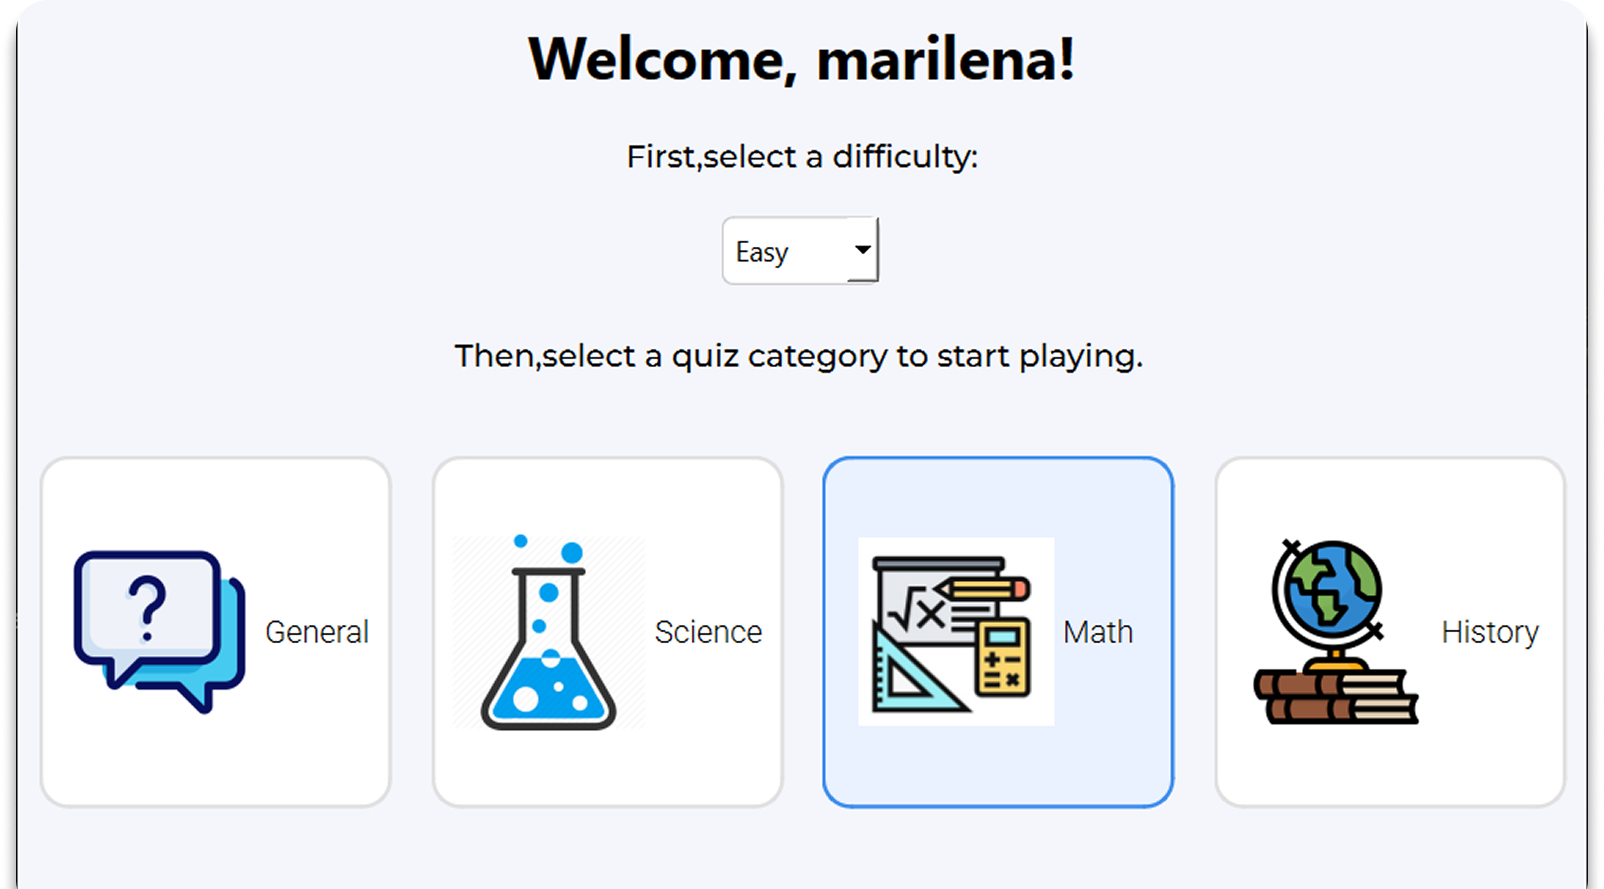
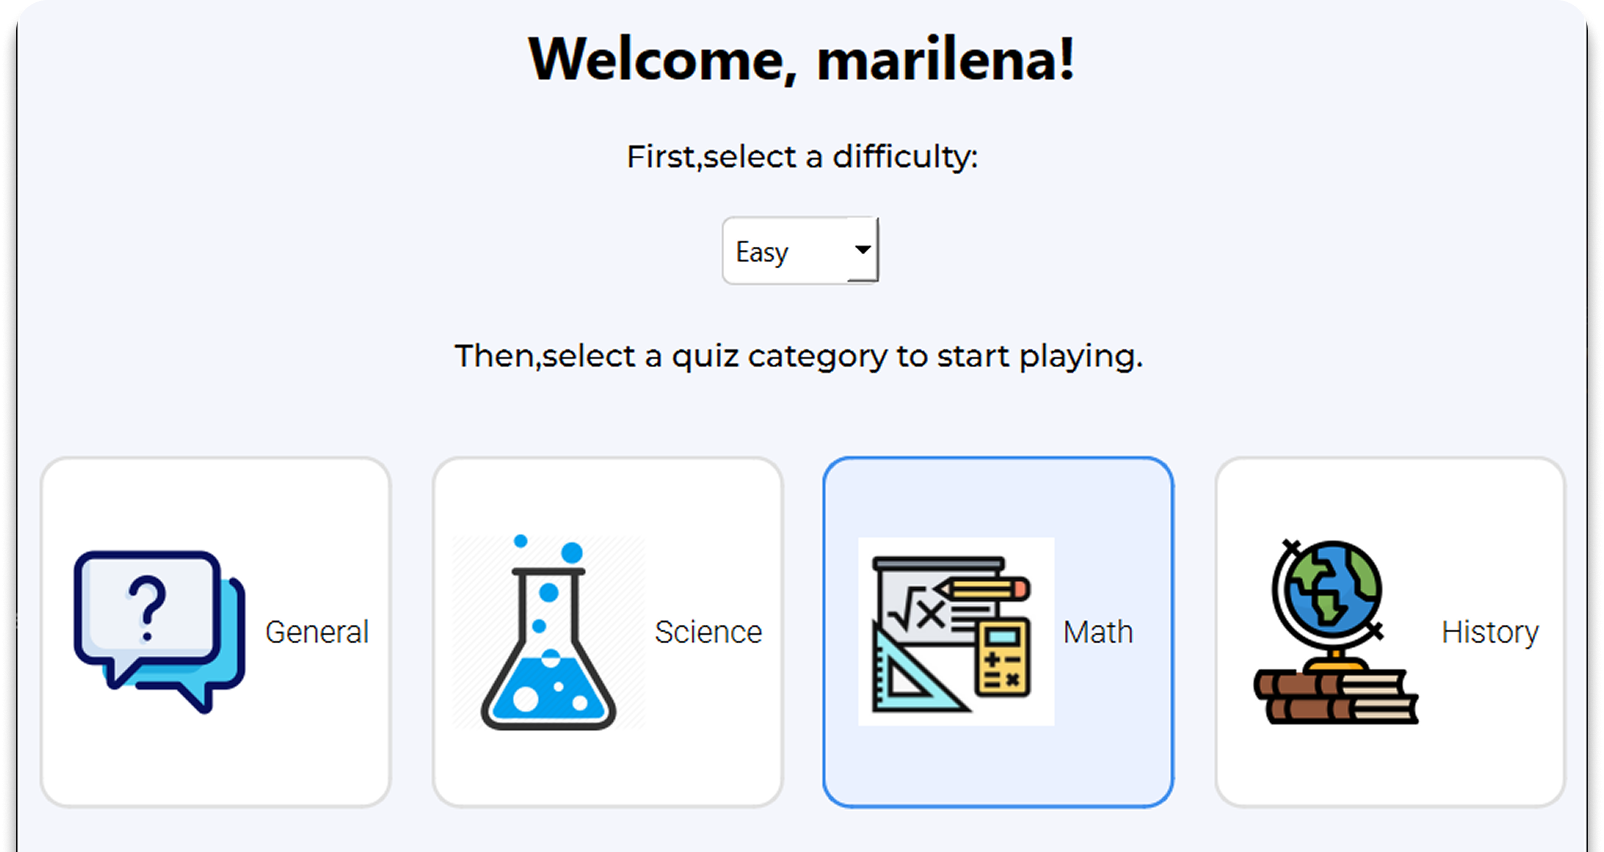
Changes to projects for responsiveness + small syntax changes to hero

diff --git a/src/components/Projects.jsx b/src/components/Projects.jsx
@@ -8,16 +8,9 @@ import Tilt from 'react-parallax-tilt';
 import { github } from "../assets/index.js";
 
 const ProjectCard = ({ index, project }) => {
-  {/* flex 
-  flex-col 
-  h-full 
-  w-full 
-  max-w-md 
-  rounded-lg 
-  p-2*/}
 
   const shouldReduceMotion = useReducedMotion()
-
+  const isPortrait = project.name === "Serenify(thesis)"
   return (
     <Tilt
       tiltEnable={false}
@@ -39,27 +32,42 @@ const ProjectCard = ({ index, project }) => {
         flex-col     
         items-center
         justify-center
+        pl-3
+        pr-3
+        pt-3
       `}>
 
-        <div className="flex flex-wrap min-h-5 gap-3 m-3 m-3 md:m-4 items-center">
+        <div className="flex flex-wrap 
+        min-h-5
+        gap-2 
+        sm:gap-3
+        mb-2 
+        sm:mb-3
+        md:mb-4 
+        items-center
+        self-start
+        ">
           {
             project.tags.map((tag) => (
-              <div className={`${styles.glassProjectTagsBg} flex items-center gap-1.5 
-            rounded-3xl 
-            px-2
-            font-semibold
-            [&:hover]:scale-110 
-            [&:hover]:border-white-100 
-            transition 
-            duration-300
+              <div
+                key={`${project.name}-${tag.name}`}
+                className={`${styles.glassProjectTagsBg} flex items-center gap-1.5 
+                rounded-3xl 
+                px-2
+                py-0.5
+                font-semibold
+                [&:hover]:scale-110 
+                [&:hover]:border-white-100 
+                transition 
+                duration-300
+                p-1
             `}>
                 <img src={tag.logo}
-                  className="ml-1 w-4 h-4 sm:w-2 sm:h-2 rounded-md object-contain"
+                  className="ml-1 w-3.5 h-3.5 sm:w-4 sm:h-4 md:w-4 md:h-4 rounded-md object-contain"
                   alt={tag.name}
                 />
 
                 <p
-                  key={`${project.name}-${tag.name}`}
                   className="mr-2 text-black text-[13px] xs:text-[14px] sm:text-[14px] md:text-[16px] 
                   font-light 
                   [&:hover]:font-medium"
@@ -71,15 +79,15 @@ const ProjectCard = ({ index, project }) => {
           }
         </div>
 
-        <div className="flex flex-row items-center justify-center gap-4">
+        <div className="flex flex-row items-center gap-4">
           <h3 className={`${styles.projectsHeadText} mb-3`}>
             {project.name}
           </h3>
 
           <div
             onClick={() => window.open(project.source_code_link, "_blank")}
-            className="rounded-full w-8 h-8 bg-gray-100
-            flex justify-center items-center cursor-pointer">
+            className="rounded-full w-9 h-9 sm:w-10 sm:h-10 bg-gray-100
+            flex justify-center items-center cursor-pointer shrink-0 [&:hover]:scale-110 transition duration-300">
             <img
               src={github}
               alt="github logo"
@@ -95,14 +103,11 @@ const ProjectCard = ({ index, project }) => {
         </p>
 
 
-        <div className="mt-auto">
+        <div className={`mt-auto w-full ${isPortrait ? "max-w-[40%] mx-auto" : null}`}>
           <img
             src={project.image}
             alt={project.image_alt}
-            className={project.name === "Serenify(thesis)"
-              ? "w-full h-50 sm:w-1/2 sm:h-25 md:w-full md:h-50"
-              : "w-full h-full sm:w-1/2 sm:h-1/2 md:w-full md:h-full"
-            }
+            className="w-full h-full object-contain"
           />
         </div>
       </motion.div>
@@ -118,15 +123,6 @@ export const Projects = () => {
           Projects
         </h2>
       </motion.div>
-      {/*grid 
-  grid-cols-1 
-  md:grid-cols-2 
-  max-w-6xl 
-  mx-auto 
-  items-stretch 
-  justify-items-center 
-  gap-4 
-  p-5 */}
       <div className="grid grid-cols-1 md:grid-cols-2 max-w-5xl  mx-auto
                   place-items-center items-stretch gap-4  p-5">
         {

diff --git a/src/components/Hero.jsx b/src/components/Hero.jsx
@@ -29,12 +29,12 @@ export const Hero = () => {
           <div className='flex flex-row gap-4 md:gap-8 justify-center'>
             <button
               className={`${styles.resumeButtonStyles} mt-8 `}>
-              <a href={cv} aria-disabled="true" tabindex="-1" download={"cv-Maria-Eleni-Kosma.pdf"}>
+              <a href={cv} aria-disabled="true" tabIndex="-1" download={"cv-Maria-Eleni-Kosma.pdf"}>
                 Resume
               </a>
             </button>
             <button className={`${styles.projectButtonStyles} mt-8`}>
-              <a href="https://github.com/marilenakosma" aria-disabled="true" tabindex="-1" >
+              <a href="https://github.com/marilenakosma" aria-disabled="true" tabIndex="-1" >
                 Github
               </a>
             </button>
